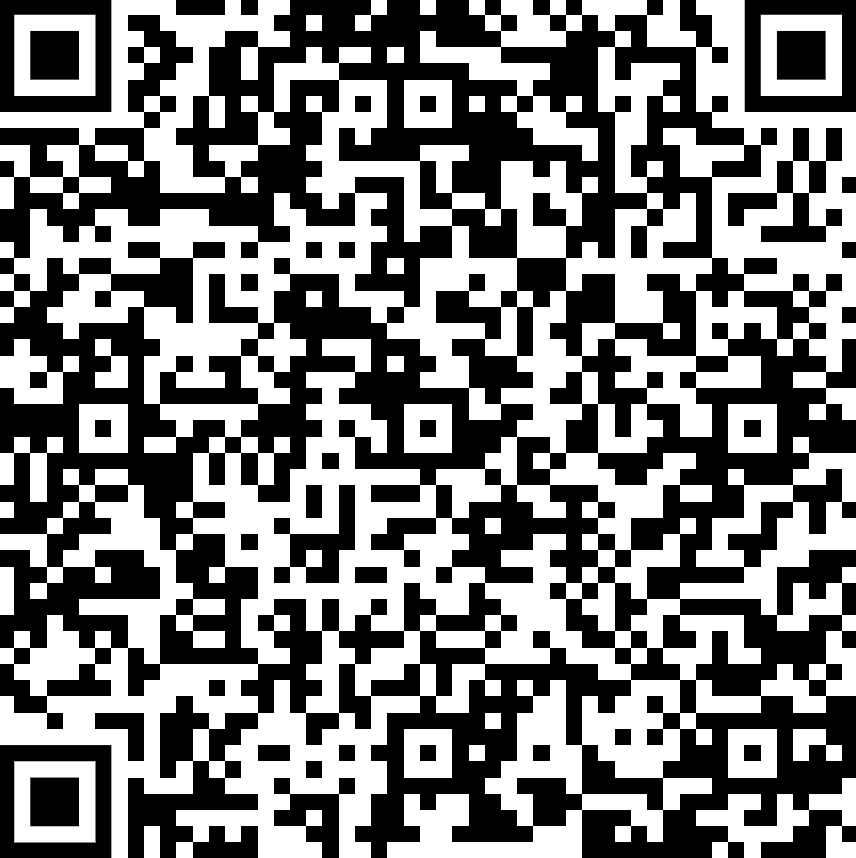
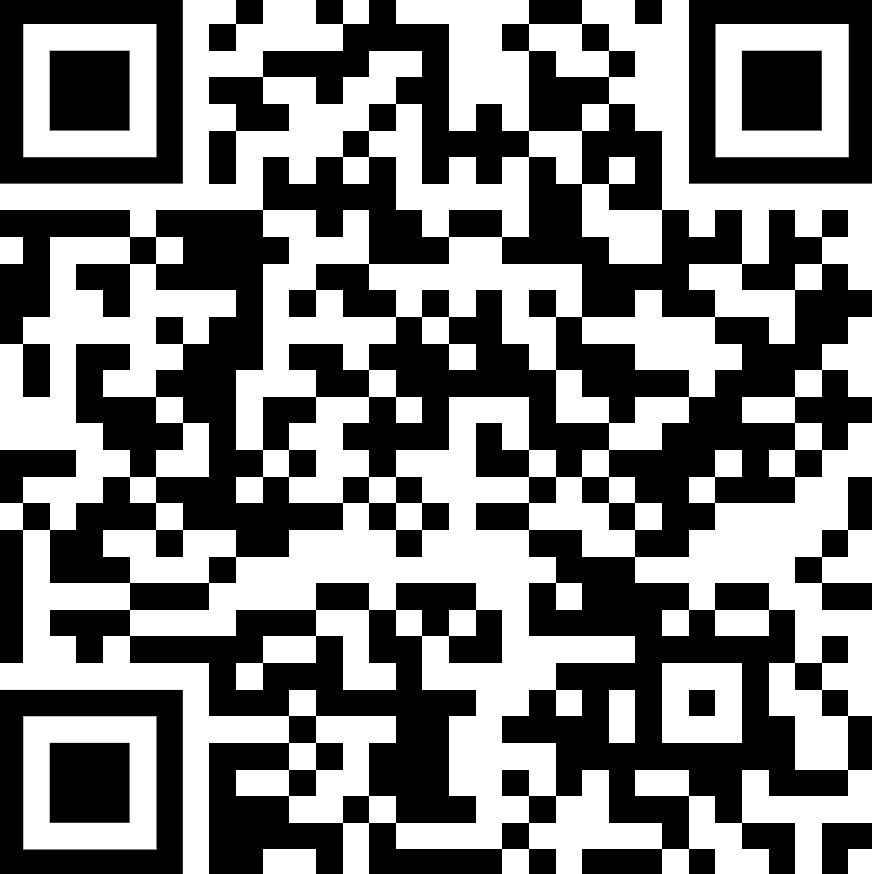
Fix motion submit bug and update QR code

diff --git a/static/search.js b/static/search.js
@@ -22,18 +22,22 @@ var frames = {
     socket: null,
 
     start: function() {
+        var submitted = false;
         var url = "ws://" + host + "/frames";
         frames.socket = new WebSocket(url);
         frames.socket.onmessage = function(event) {
-            var frameData = JSON.parse(event.data);
-            var handCommand = frames.get_left_wrist_command(frameData);
-
-            if (handCommand === 'right') {
-                window.location = 'http://0.0.0.0:5017/add_song_to_playlist?song=' + document.getElementById("song").value;
-            } else if (handCommand === 'left') {
-                document.getElementById("song").value = "";
+            if (!submitted) {
+                var frameData = JSON.parse(event.data);
+                var handCommand = frames.get_left_wrist_command(frameData);
+                if (handCommand === 'right') {
+                    window.location = 'http://0.0.0.0:5017/add_song_to_playlist?song=' + document.getElementById("song").value;
+                    submitted = true;
+                } else if (handCommand === 'left') {
+                    document.getElementById("song").value = "";
+                }
+            } else {
+                window.location = 'http://0.0.0.0:5017/results';
             }
-            sleep(1000);
         }
     },
 
